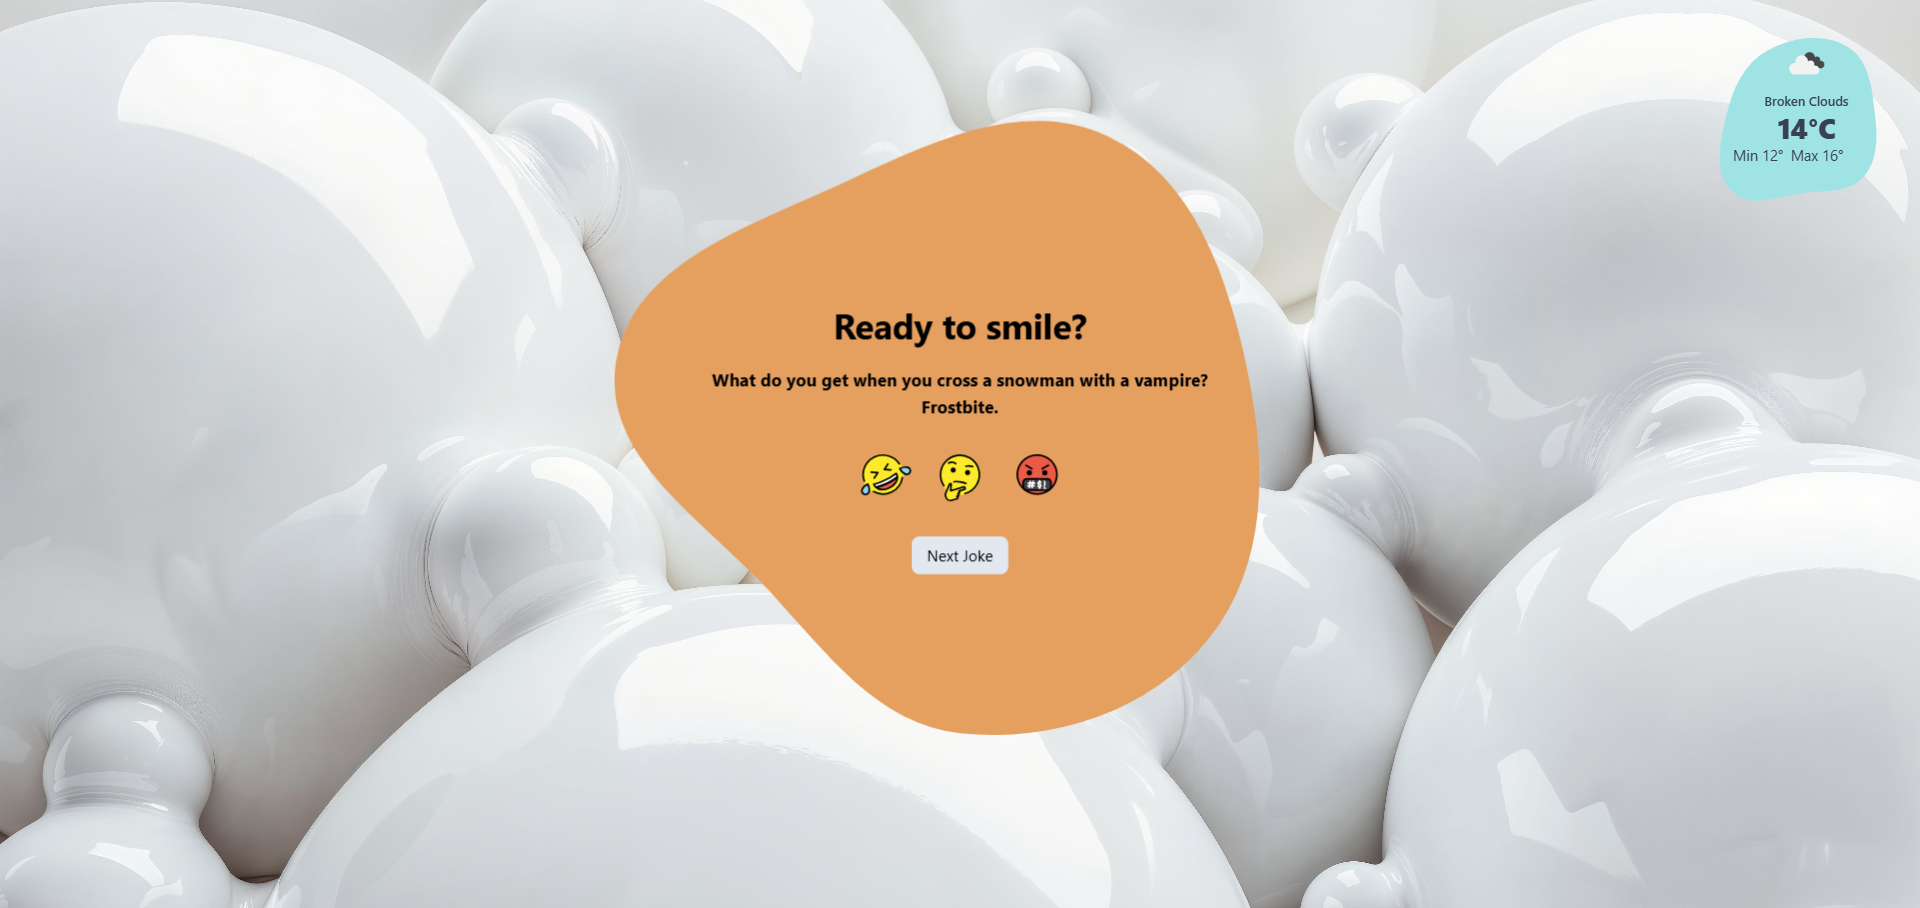
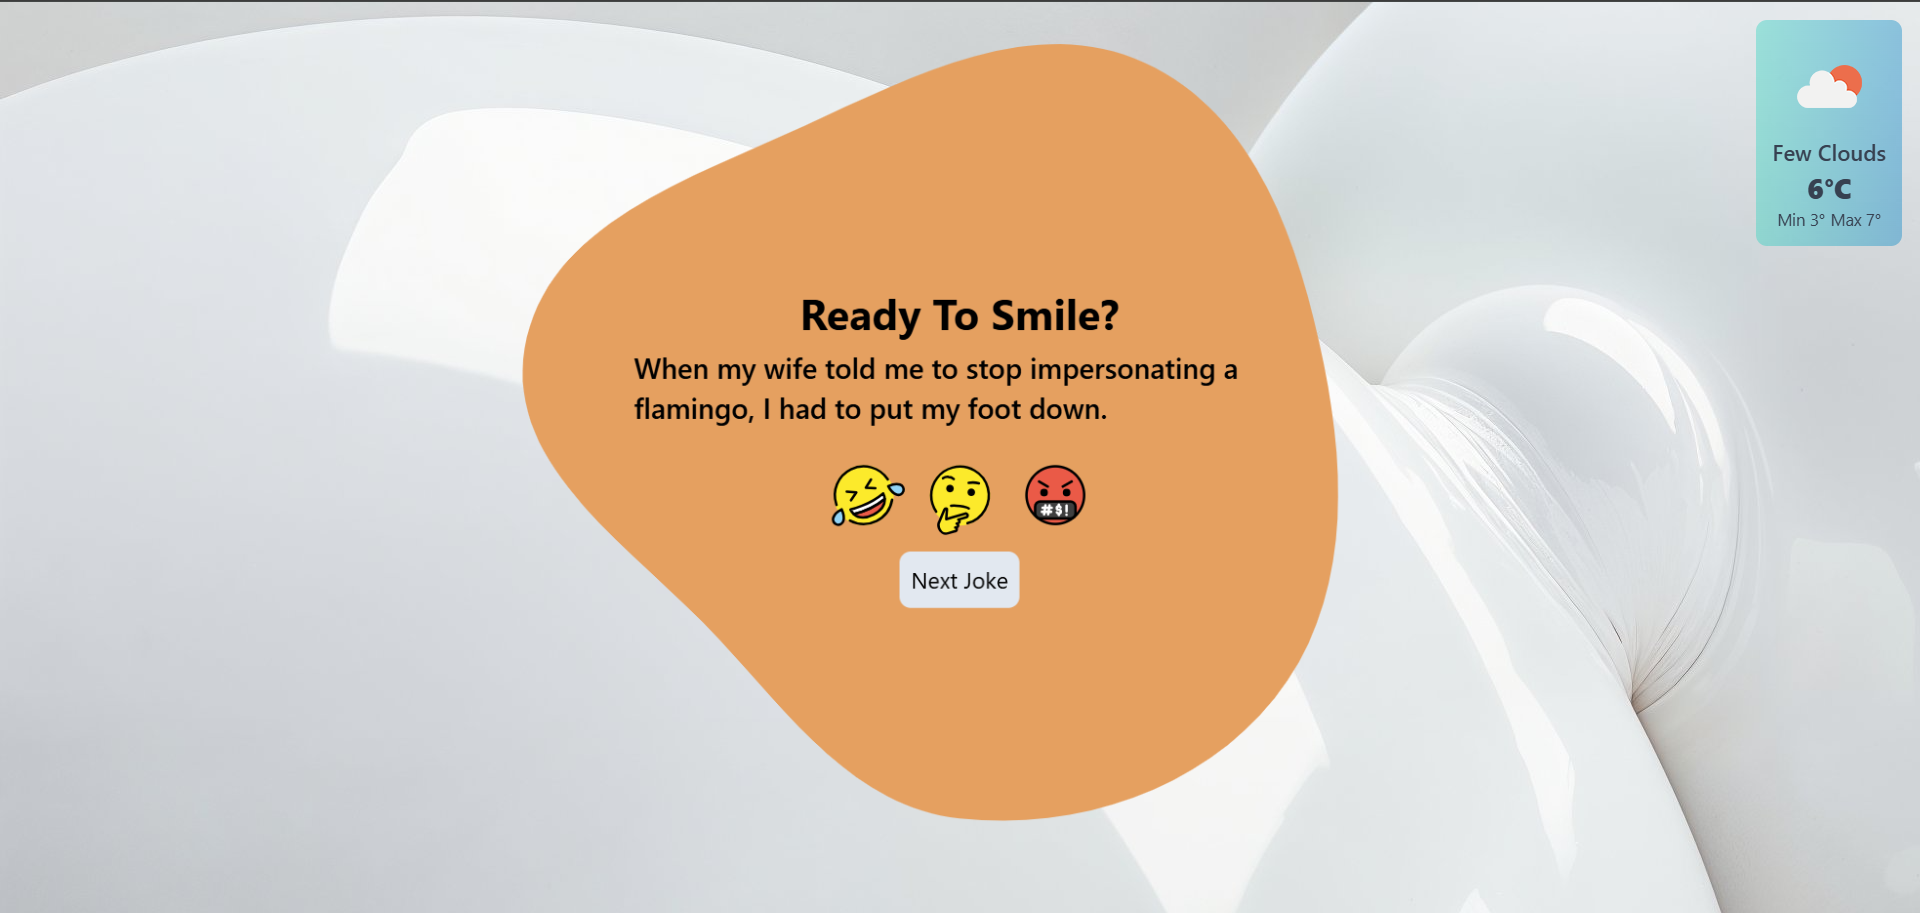
Fix: Correction of the README.md file for updating images

diff --git a/README.md b/README.md
@@ -1,8 +1,9 @@
 # JokeProject
+This project is a web application developed in TypeScript that allows users to get random jokes, rate them, and check the weather. It uses external APIs to obtain jokes and weather data and is structured to facilitate scalability and maintenance.
 
 ![Vista del proyecto](public/image/demo.png)
 
-This project is a web application developed in TypeScript that allows users to get random jokes, rate them, and check the weather. It uses external APIs to obtain jokes and weather data and is structured to facilitate scalability and maintenance.
+![Vista del proyecto - Mobile](public/image/demo-mobile.png)
 
 ## Objectives
 
